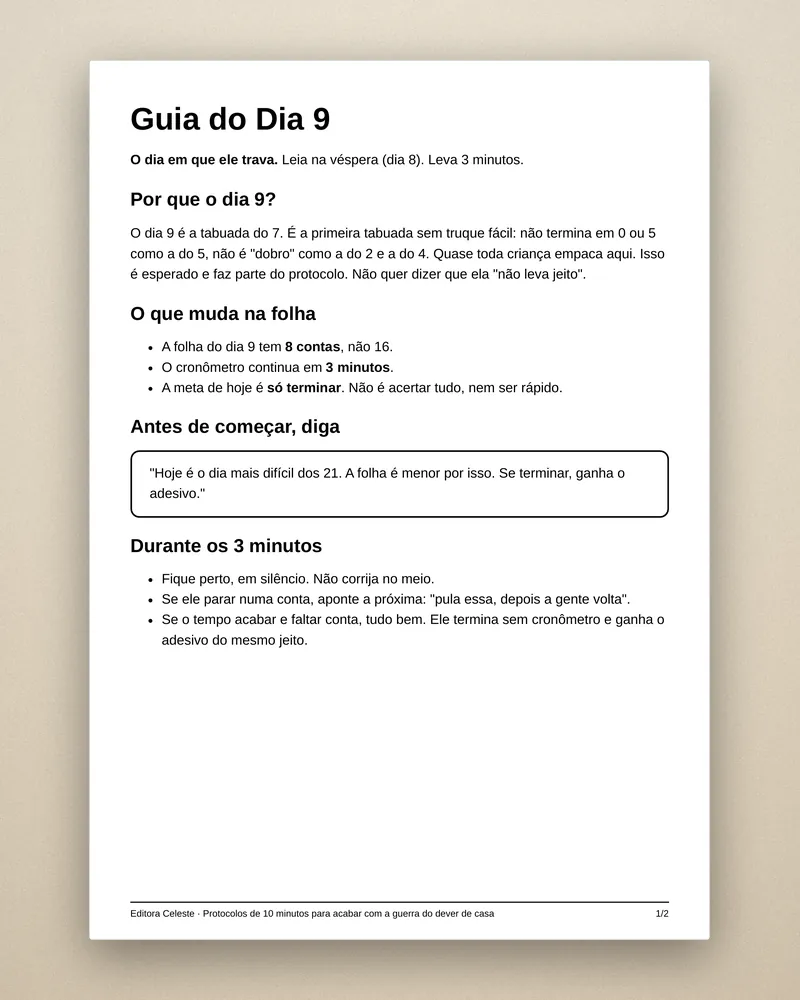
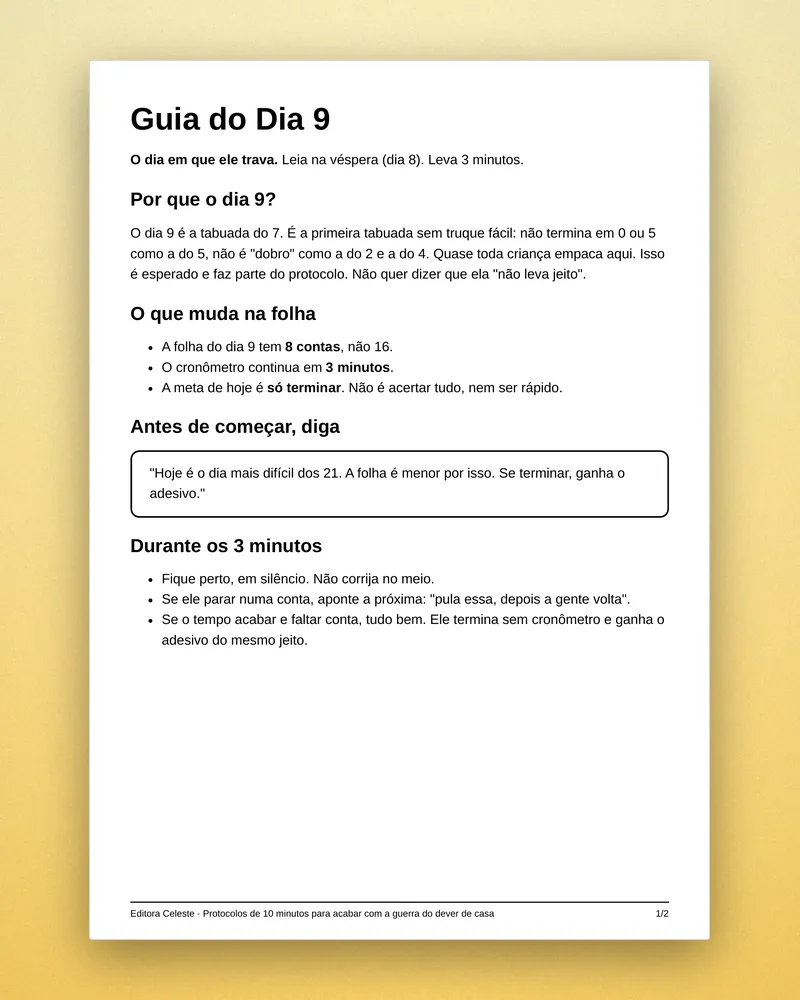
Paleta roxo/amarelo/rosa dos criativos; imagem do produto no hero
Claude-Session: https://claude.ai/code/session_01Ast5QnxUEeTmG8u9QmdkDy

Changed region(s): [[0.0, 0.062, 1.0, 1.0]]

diff --git a/tabuada/index.html b/tabuada/index.html
@@ -9,8 +9,8 @@
 <meta property="og:title" content="Protocolo 21 Dias: Tabuada sem Guerra">
 <meta property="og:description" content="10 minutos por dia. Você só cronometra.">
 <meta property="og:image" content="https://editoraceleste.netlify.app/tabuada/img/og.jpg">
-<meta name="theme-color" content="#ffffff">
-<link rel="preload" as="image" href="img/hero.webp" fetchpriority="high">
+<meta name="theme-color" content="#FFC61A">
+<link rel="preload" as="image" href="img/produto.webp" fetchpriority="high">
 <link rel="preload" as="font" type="font/woff2" href="fonts/inter-Regular.woff2" crossorigin>
 <link rel="preload" as="font" type="font/woff2" href="fonts/inter-ExtraBold.woff2" crossorigin>
 <script>
@@ -44,7 +44,7 @@ if (window.LEP.CLARITY_ID) {
 @font-face{font-family:Inter;font-weight:400;font-style:normal;font-display:swap;src:url(fonts/inter-Regular.woff2) format("woff2")}
 @font-face{font-family:Inter;font-weight:600;font-style:normal;font-display:swap;src:url(fonts/inter-SemiBold.woff2) format("woff2")}
 @font-face{font-family:Inter;font-weight:800;font-style:normal;font-display:swap;src:url(fonts/inter-ExtraBold.woff2) format("woff2")}
-:root{--ink:#1C1C1C;--soft:#515962;--cream:#F5F3EF;--terra:#B36230;--dark:#4B1412;--green:#2CAA33;--green-d:#1F8A26;--red:#B8301C;--mark:#FFE6A3;--gold:#FFC83D;--line:rgba(0,0,0,.10);--r:16px}
+:root{--ink:#2A1240;--soft:#5B4B6B;--cream:#FFF6DA;--terra:#7B2CBF;--dark:#3B0F63;--green:#2CAA33;--green-d:#1F8A26;--red:#E0187C;--mark:#FFE08A;--gold:#FFC61A;--line:rgba(0,0,0,.10);--r:16px}
 *{box-sizing:border-box}
 html{scroll-behavior:smooth;-webkit-text-size-adjust:100%}
 body{margin:0;background:#fff;color:var(--ink);font:400 17px/1.55 Inter,system-ui,-apple-system,"Segoe UI",Roboto,Arial,sans-serif;-webkit-font-smoothing:antialiased}
@@ -79,7 +79,7 @@ mark{background:linear-gradient(transparent 10%,var(--mark) 10% 92%,transparent 
 /* 2 hero */
 .hero{padding:16px 0 36px;border-bottom:1px solid var(--line)}
 .hero .sub{text-align:center;font-size:18px;line-height:1.45;margin:0 auto;max-width:540px}
-.hero .shot{width:100%;max-width:540px;margin:-8px auto -14px}
+.hero .shot{width:100%;max-width:520px;margin:14px auto 6px;border-radius:22px;box-shadow:0 14px 34px rgba(59,15,99,.28)}
 .price-line{text-align:center;font-size:20px;margin-top:2px}
 .price-line s{color:var(--soft)}
 .has-anchor .price-line .was{display:block;font-size:18px;line-height:1.2;color:var(--soft)}
@@ -276,7 +276,7 @@ footer .brand{font-weight:800;letter-spacing:.14em;text-transform:uppercase;font
   <img class="logo-h" src="img/logo.webp" width="64" height="64" fetchpriority="high" alt="Editora Celeste">
   <h1 style="margin-top:14px">Ele para de fugir da tabuada em <mark>21 dias</mark>.</h1>
   <p class="sub" style="margin-top:12px">Às 19h30 começa a mesma cena: o lápis longe do papel, o “presta atenção” pela terceira vez, o choro.<br><b>São 10 minutos por dia e um cronômetro de 3. Você só cronometra.</b></p>
-  <img class="shot" src="img/hero.webp" width="1100" height="800" fetchpriority="high" decoding="async" alt="Capa do Protocolo 21 Dias: Tabuada sem Guerra, ao lado da folha do dia 1 e do painel de 21 dias">
+  <img class="shot" src="img/produto.webp" width="1000" height="1000" fetchpriority="high" decoding="async" alt="Protocolo 21 Dias: Tabuada sem Guerra, com a capa do caderno, o quadro de progresso de 21 dias e uma folha da tabuada do 6">
   <p class="price-line"><span class="anchor was">De <s>R$ 147,00</s></span><span class="l2"><span class="anchor">por apenas </span><span class="noanchor">Apenas </span><b>R$ 37,00</b></span></p>
   <a class="btn co" data-co="CHECKOUT_FRONT" data-upgrade href="#">Quero o protocolo completo</a>
   <p class="micro">Você recebe na hora, direto no seu e-mail</p>
@@ -544,7 +544,7 @@ footer .brand{font-weight:800;letter-spacing:.14em;text-transform:uppercase;font
 
   (function(){
     var R = L.REVIEWS || []; if (!R.length) return;
-    var cols = ["#B36230","#2CAA33","#4B1412","#3b6fb6","#8a4fa0","#c27a00"];
+    var cols = ["#7B2CBF","#E0187C","#3B0F63","#1CA9C9","#2CAA33","#E08A00"];
     function esc(s){ return String(s).replace(/[&<>"]/g, function(c){ return {"&":"&amp;","<":"&lt;",">":"&gt;",'"':"&quot;"}[c]; }); }
     function card(r,i,txt){
       var ini = r.n.split(" ").map(function(p){return p[0];}).join("").slice(0,2).toUpperCase();

diff --git a/tabuada/privacidade/index.html b/tabuada/privacidade/index.html
@@ -9,8 +9,8 @@ body{margin:0;background:#fff;color:#1C1C1C;font:400 17px/1.6 Inter,system-ui,-a
 h1{font-weight:800;font-size:30px;line-height:1.15;margin:8px 0 6px;letter-spacing:-.02em}
 h2{font-weight:800;font-size:20px;margin:28px 0 6px}
 p,li{margin:8px 0}
-a{color:#B36230}
-.b{font-weight:800;letter-spacing:.14em;text-transform:uppercase;font-size:13px;color:#4B1412}
+a{color:#7B2CBF}
+.b{font-weight:800;letter-spacing:.14em;text-transform:uppercase;font-size:13px;color:#3B0F63}
 .s{color:#515962;font-size:14px}
 </style></head><body><div class="w">
 <div class="b">Editora Celeste</div>

diff --git a/tabuada/termos/index.html b/tabuada/termos/index.html
@@ -9,8 +9,8 @@ body{margin:0;background:#fff;color:#1C1C1C;font:400 17px/1.6 Inter,system-ui,-a
 h1{font-weight:800;font-size:30px;line-height:1.15;margin:8px 0 6px;letter-spacing:-.02em}
 h2{font-weight:800;font-size:20px;margin:28px 0 6px}
 p,li{margin:8px 0}
-a{color:#B36230}
-.b{font-weight:800;letter-spacing:.14em;text-transform:uppercase;font-size:13px;color:#4B1412}
+a{color:#7B2CBF}
+.b{font-weight:800;letter-spacing:.14em;text-transform:uppercase;font-size:13px;color:#3B0F63}
 .s{color:#515962;font-size:14px}
 </style></head><body><div class="w">
 <div class="b">Editora Celeste</div>

diff --git a/tabuada/obrigado/index.html b/tabuada/obrigado/index.html
@@ -19,7 +19,7 @@ if (window.LEP.CLARITY_ID) {
 }
 </script>
 <style>
-:root{--ink:#1d1d1f;--soft:#55555c;--bg:#fffaf2;--card:#fff;--line:#ece4d6;--green:#1f6f5c;--yellow:#fff3c9}
+:root{--ink:#1d1d1f;--soft:#55555c;--bg:#FFF6DA;--card:#fff;--line:#EADFB8;--green:#1f6f5c;--yellow:#fff3c9}
 *{box-sizing:border-box}
 body{margin:0;background:var(--bg);color:var(--ink);font:17px/1.6 system-ui,-apple-system,"Segoe UI",Roboto,Arial,sans-serif}
 .wrap{max-width:640px;margin:0 auto;padding:0 18px 48px}
